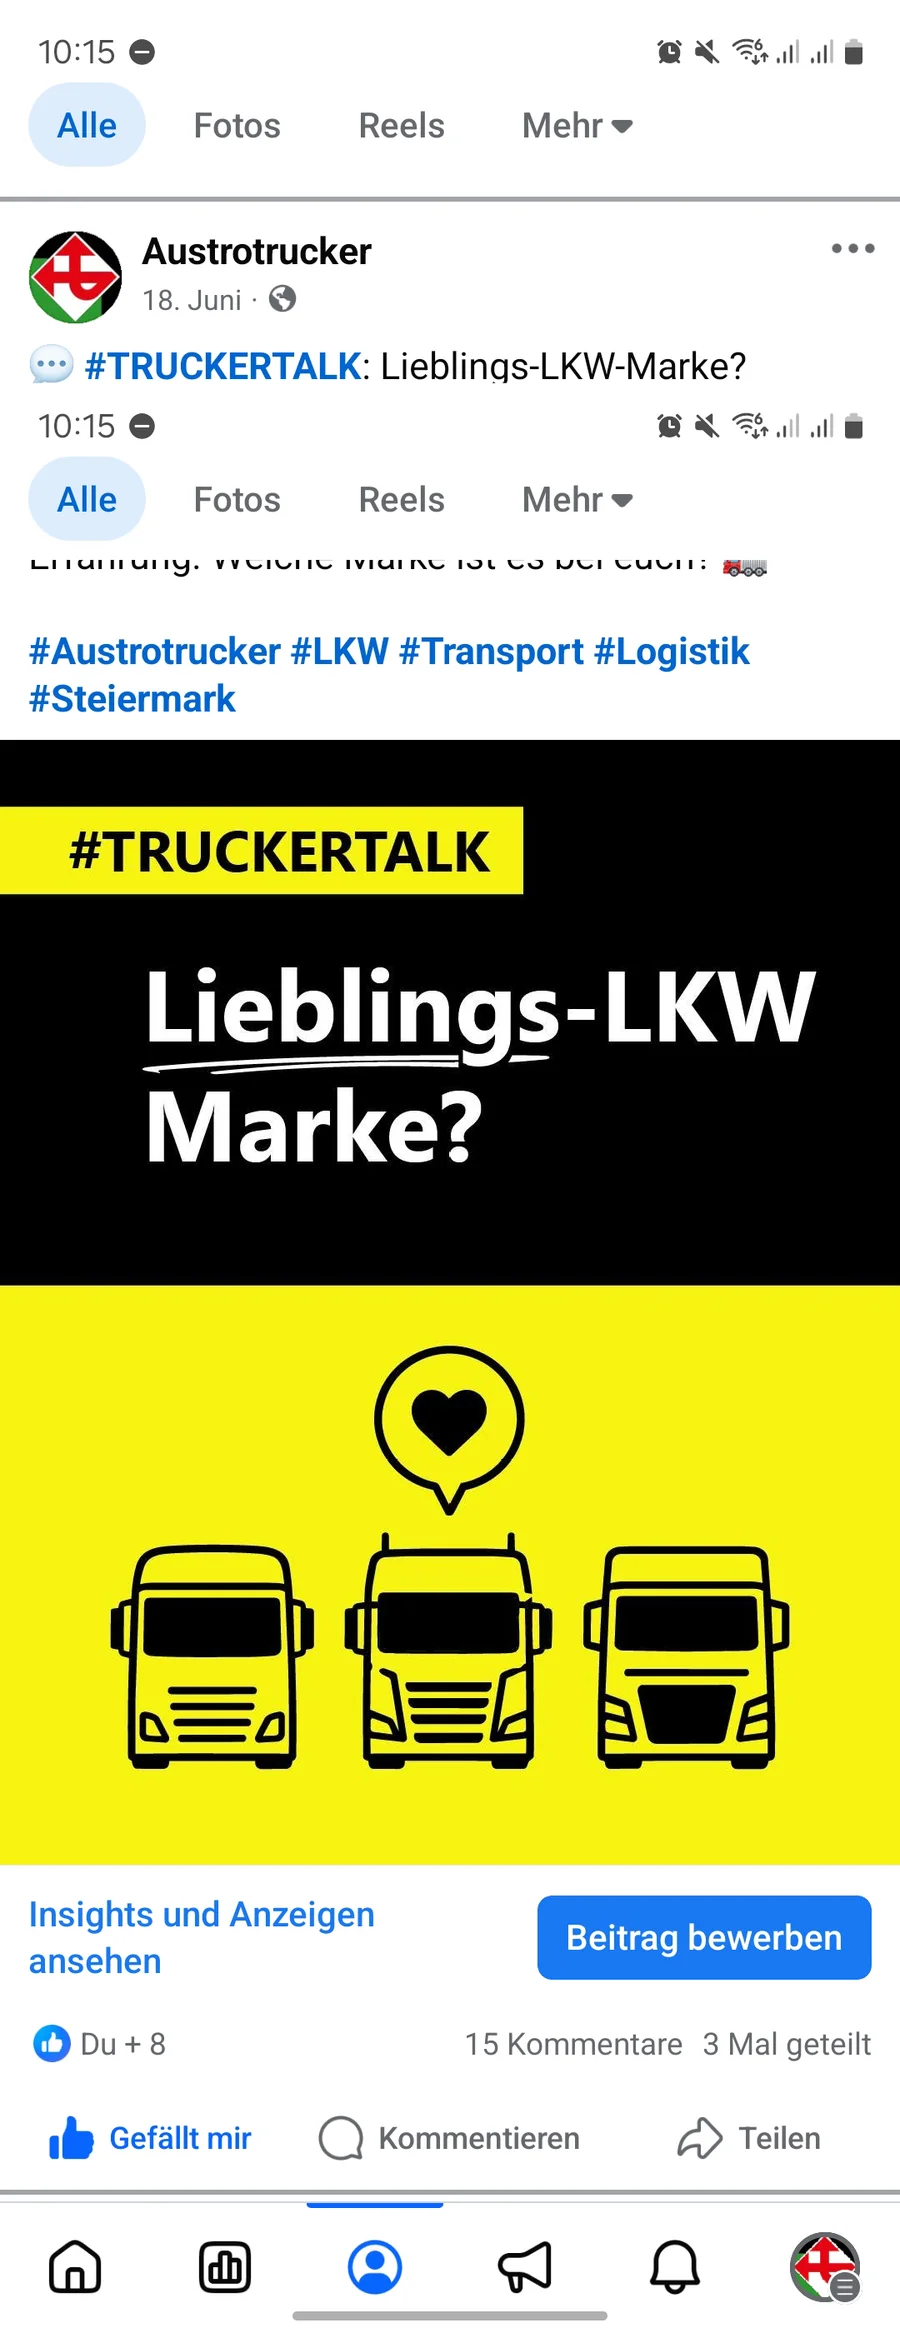
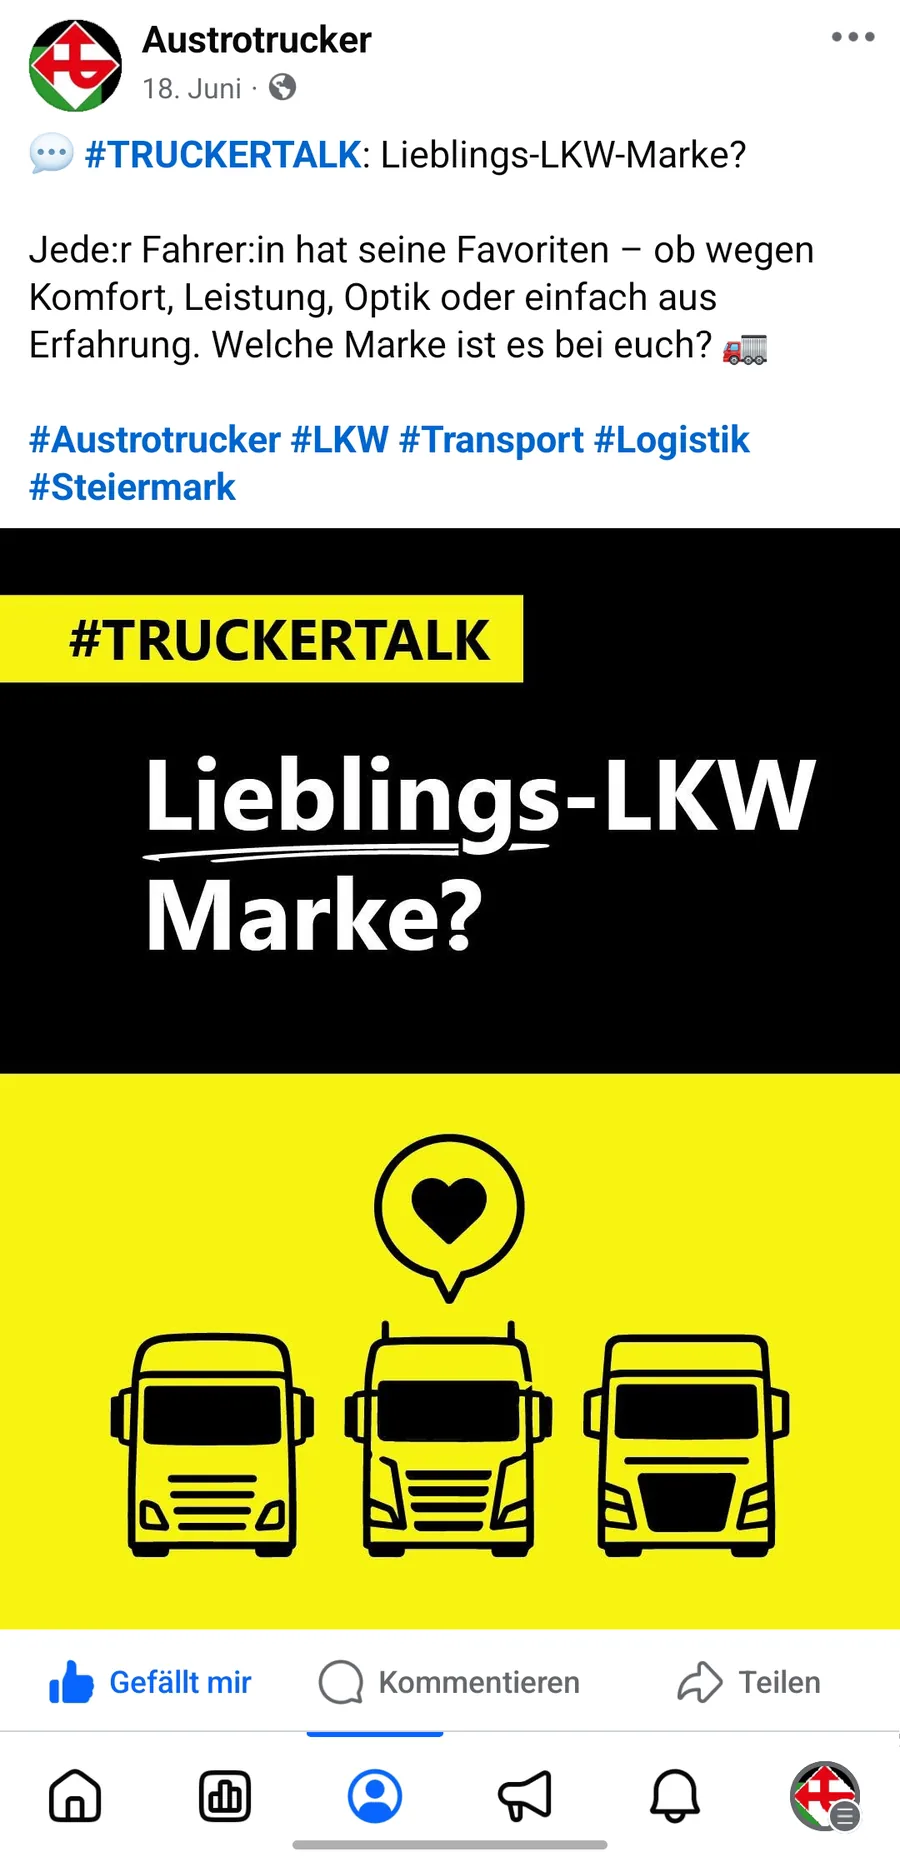
Bildtausch: neuer Truckertalk-Beitrag (AT) und Aufkleber-Foto im Social-Media-Grid
Austrotrucker: Truckertalk-Beitragsbild gegen Lamas neue
LP_Austrotrucker-18.jpg getauscht (900x1863). Social-Media-Grid:
Werkstatt-Foto DSC08363 durch DSC08956 (Aufkleber-Montage am gelben
Fahrzeug) ersetzt.

diff --git a/designs/10-apple-motion/leistungen/social-media-marketing/index.html b/designs/10-apple-motion/leistungen/social-media-marketing/index.html
@@ -1519,8 +1519,8 @@
             <button class="tile" type="button" data-typ="bild" data-src="/assets/img/Social_Post_Flyer.webp" aria-label="Bild in Großansicht öffnen: Post-Design „Deine Botschaft im Blick“ zu Flyern">
               <img src="/assets/img/Social_Post_Flyer.webp" alt="" loading="lazy" width="1080" height="1350">
             </button>
-            <button class="tile" type="button" data-typ="bild" data-src="/assets/img/Social_Post_Werkstatt.webp" aria-label="Bild in Großansicht öffnen: Foto-Beitrag Fahrzeugfolierung in der Kortschak-Werkstatt">
-              <img src="/assets/img/Social_Post_Werkstatt.webp" alt="" loading="lazy" width="1080" height="1350">
+            <button class="tile" type="button" data-typ="bild" data-src="/assets/img/Social_Post_Aufkleber.webp" aria-label="Bild in Großansicht öffnen: Foto-Beitrag Aufkleber-Montage am gelben Firmenfahrzeug">
+              <img src="/assets/img/Social_Post_Aufkleber.webp" alt="" loading="lazy" width="1080" height="1350">
             </button>
           </div>
           <!-- 02.09.2026: dritte Reihe für Glocke-Reel und Website-

diff --git a/designs/10-apple-motion/projekte/austrotrucker/index.html b/designs/10-apple-motion/projekte/austrotrucker/index.html
@@ -1659,10 +1659,11 @@
            echte Facebook-Beitrag samt echter Kommentare aus der Community.
            Kommentare wortgetreu aus dem Original-Thread übernommen
            (Datei Kommentare.png), Nachnamen aus Datenschutzgründen
-           abgekürzt. -->
+           abgekürzt. Beitragsbild am 02.09.2026 gegen Lamas neue
+           LP_Austrotrucker-18.jpg getauscht. -->
       <div class="tt-dialog reveal">
         <figure class="tt-dialog__post">
-          <img src="/assets/img/projekte/austrotrucker/post-18.webp" alt="Facebook-Beitrag des Formats Truckertalk mit der Frage nach der Lieblings-Lkw-Marke" loading="lazy" width="900" height="2333">
+          <img src="/assets/img/projekte/austrotrucker/post-18.webp" alt="Facebook-Beitrag des Formats Truckertalk mit der Frage nach der Lieblings-Lkw-Marke" loading="lazy" width="900" height="1862">
           <figcaption>#TRUCKERTALK auf Facebook: „Lieblings-Lkw-Marke?“</figcaption>
         </figure>
         <div class="tt-dialog__kommentare">
